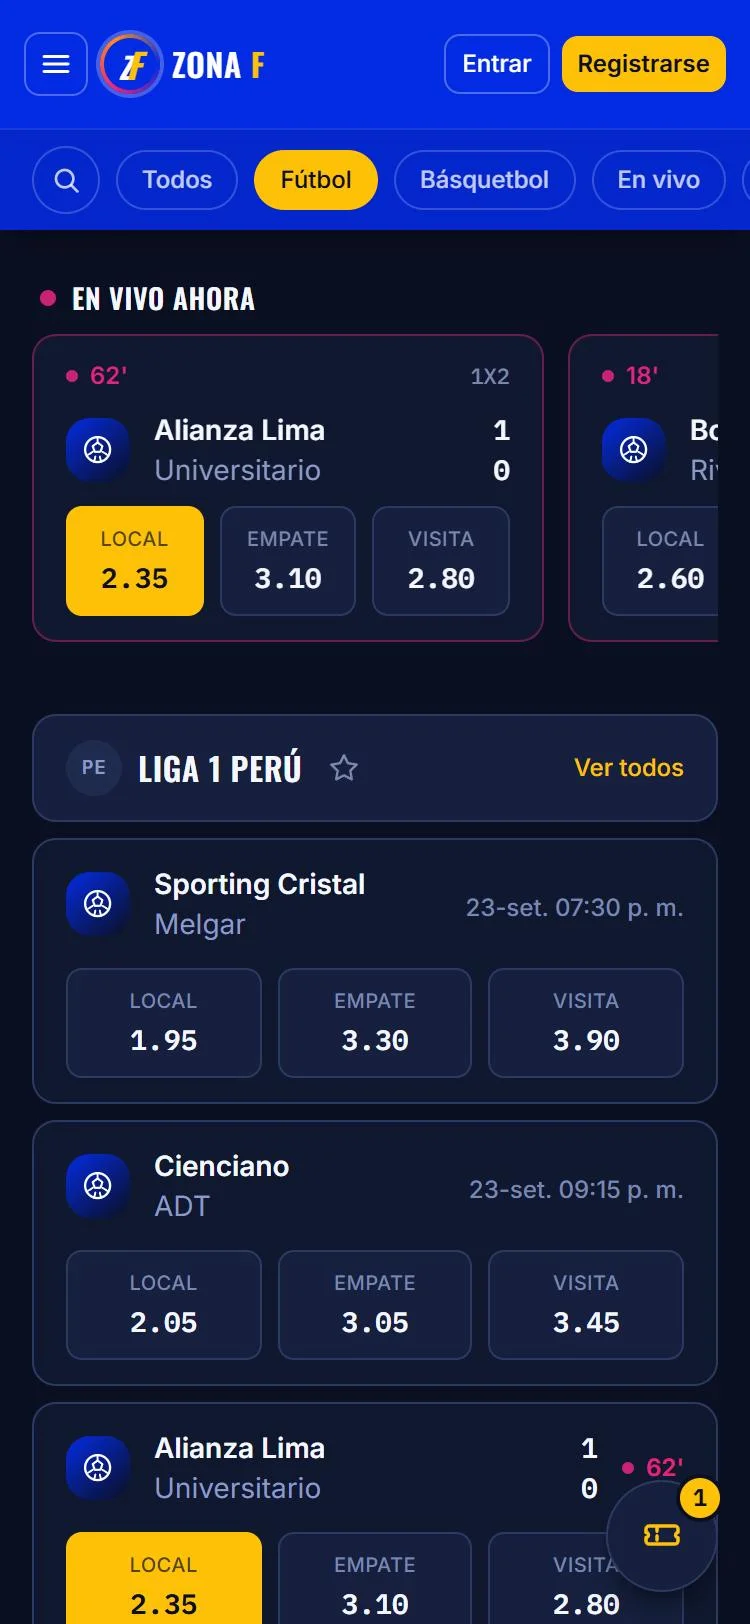
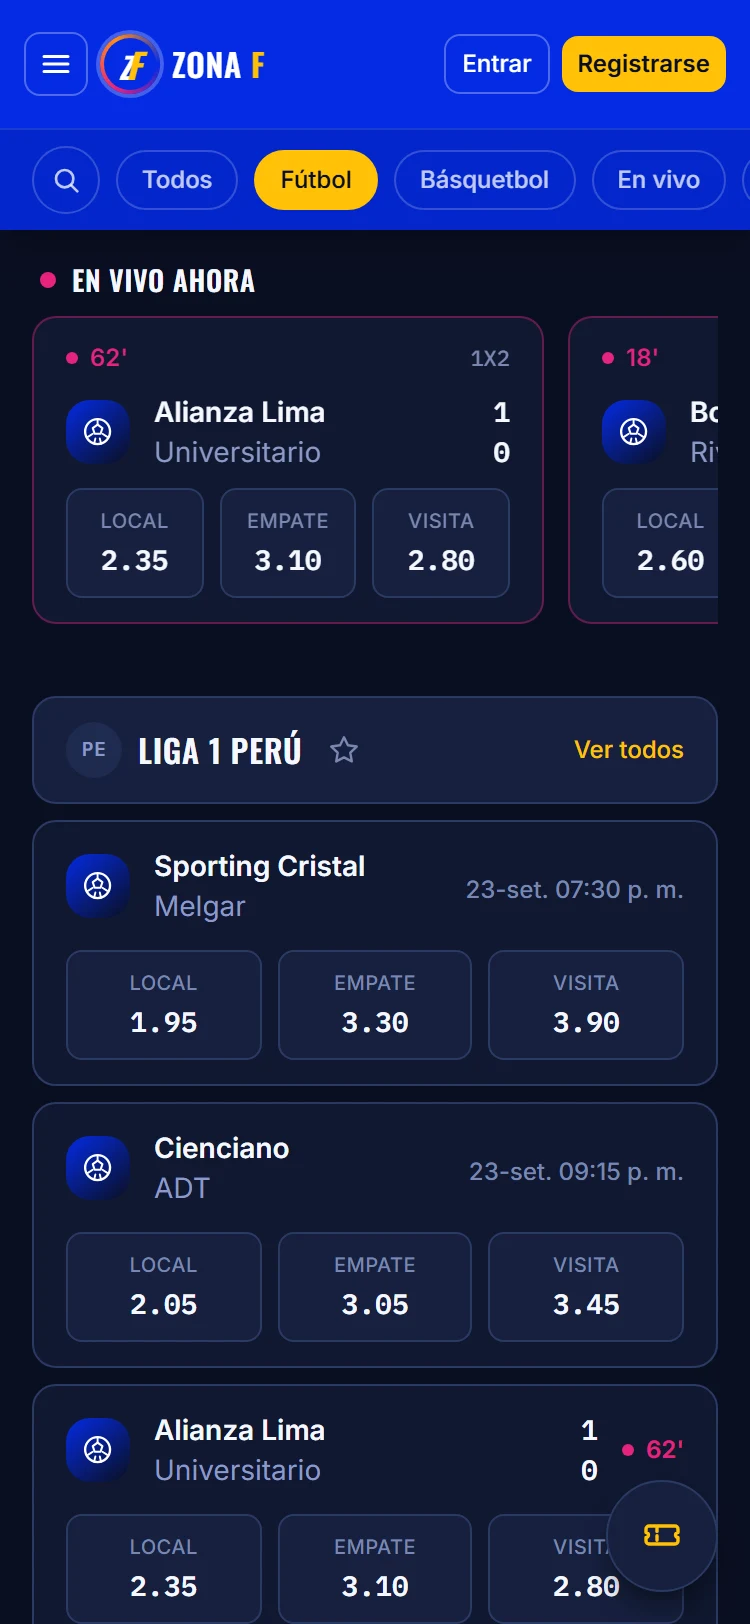
T35: capturas definitivas de Zona F (solo interfaz)

diff --git a/scripts/capture-screenshots.ts b/scripts/capture-screenshots.ts
@@ -27,6 +27,17 @@ type Shot = {
 
 const settle = (page: Page) => page.waitForTimeout(1500);
 
+/** Zona F: salta el hero y las promociones (jugadores, escudos) hasta «En vivo ahora». */
+async function scrollLiveMatchesIntoView(page: Page, offset: number) {
+  await page.getByRole('heading', { name: 'En vivo ahora' }).first().waitFor();
+  await page.evaluate((offset) => {
+    const heading = [...document.querySelectorAll('h3')].find((h) =>
+      /en vivo ahora/i.test(h.textContent ?? ''),
+    );
+    window.scrollBy(0, (heading?.getBoundingClientRect().top ?? 0) - offset);
+  }, offset);
+}
+
 const shots: Shot[] = [
   {
     name: 'hb-portada-escritorio',
@@ -54,6 +65,28 @@ const shots: Shot[] = [
         window.scrollBy(0, top - 112);
       });
     },
+  },
+  {
+    name: 'zonaf-escritorio',
+    slug: 'zona-f',
+    url: 'https://zona-f.vercel.app/',
+    viewport: desktop,
+    prepare: async (page) => {
+      await scrollLiveMatchesIntoView(page, 90);
+      // Una selección en el boleto: el primer «Local» de la tarjeta de Alianza Lima.
+      await page
+        .getByRole('button', { name: /Local\s*2\.35/ })
+        .last()
+        .click();
+      await page.getByText('Ganancia potencial').first().waitFor();
+    },
+  },
+  {
+    name: 'zonaf-movil',
+    slug: 'zona-f',
+    url: 'https://zona-f.vercel.app/',
+    viewport: phone,
+    prepare: (page) => scrollLiveMatchesIntoView(page, 130),
   },
   {
     name: 'finanzas-escritorio',
